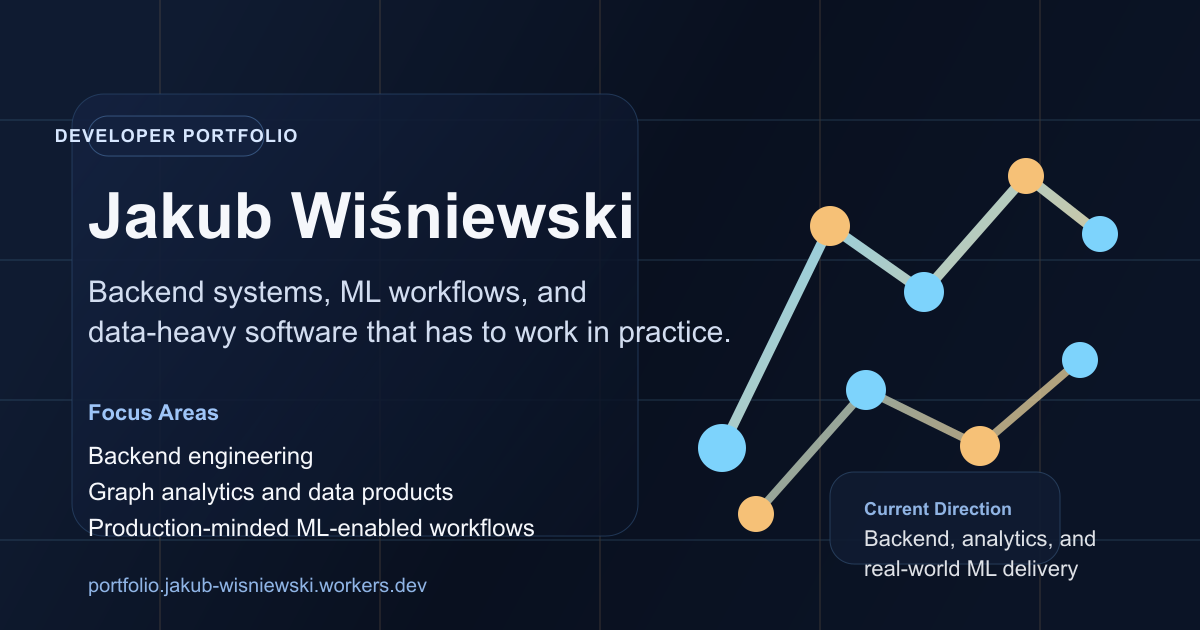
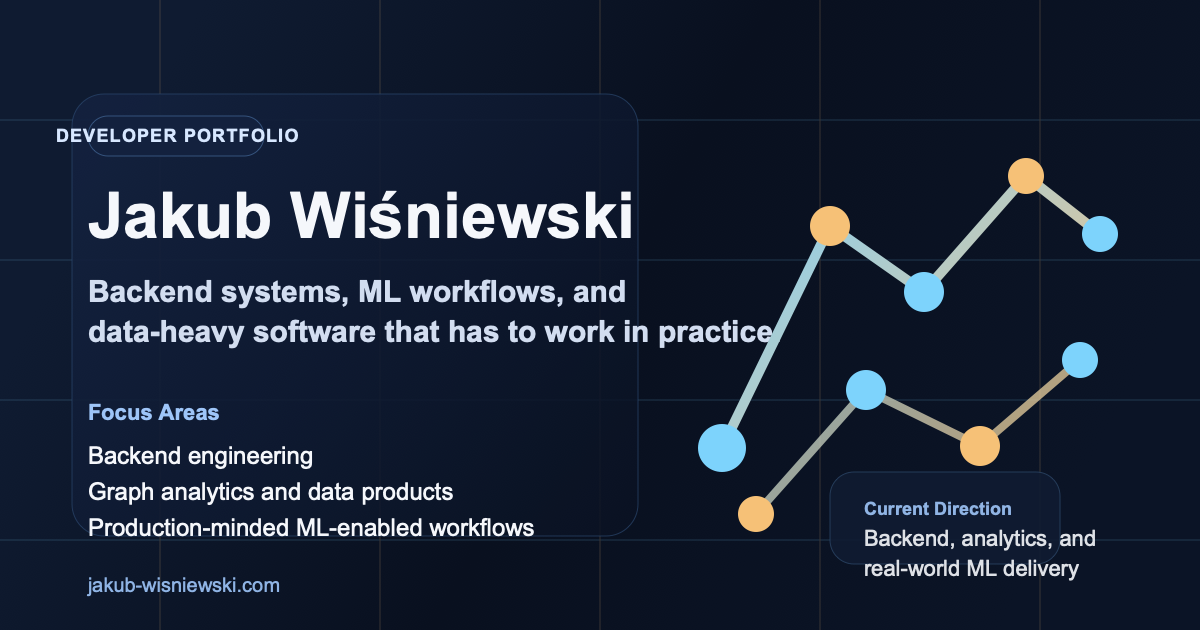
Align site metadata and Worker config with custom domain

diff --git a/index.html b/index.html
@@ -44,15 +44,15 @@
     />
     <meta
       property="og:url"
-      content="https://portfolio.jakub-wisniewski.workers.dev/"
+      content="https://jakub-wisniewski.com/"
     />
     <meta
       property="og:image"
-      content="https://portfolio.jakub-wisniewski.workers.dev/og-image.png"
+      content="https://jakub-wisniewski.com/og-image.png"
     />
     <meta
       property="og:image:secure_url"
-      content="https://portfolio.jakub-wisniewski.workers.dev/og-image.png"
+      content="https://jakub-wisniewski.com/og-image.png"
     />
     <meta property="og:image:type" content="image/png" />
     <meta property="og:image:width" content="1200" />
@@ -72,21 +72,21 @@
     />
     <meta
       name="twitter:image"
-      content="https://portfolio.jakub-wisniewski.workers.dev/og-image.png"
+      content="https://jakub-wisniewski.com/og-image.png"
     />
     <meta
       name="twitter:image:alt"
       content="Jakub Wiśniewski portfolio preview card with graph-inspired visuals and a backend engineering focus."
     />
-    <link rel="canonical" href="https://portfolio.jakub-wisniewski.workers.dev/" />
+    <link rel="canonical" href="https://jakub-wisniewski.com/" />
     <link
       rel="alternate"
-      href="https://portfolio.jakub-wisniewski.workers.dev/"
+      href="https://jakub-wisniewski.com/"
       hreflang="en"
     />
     <link
       rel="alternate"
-      href="https://portfolio.jakub-wisniewski.workers.dev/"
+      href="https://jakub-wisniewski.com/"
       hreflang="x-default"
     />
     <link rel="manifest" href="/site.webmanifest" />
@@ -133,46 +133,46 @@
         "@graph": [
           {
             "@type": "WebSite",
-            "@id": "https://portfolio.jakub-wisniewski.workers.dev/#website",
+            "@id": "https://jakub-wisniewski.com/#website",
             "name": "Jakub Wiśniewski Portfolio",
-            "url": "https://portfolio.jakub-wisniewski.workers.dev/",
+            "url": "https://jakub-wisniewski.com/",
             "description": "Jakub Wiśniewski is a backend-focused developer building data products, graph analytics systems, ML-enabled workflows, and production-minded web applications.",
             "inLanguage": "en",
             "publisher": {
-              "@id": "https://portfolio.jakub-wisniewski.workers.dev/#person"
+              "@id": "https://jakub-wisniewski.com/#person"
             }
           },
           {
             "@type": "WebPage",
-            "@id": "https://portfolio.jakub-wisniewski.workers.dev/#webpage",
-            "url": "https://portfolio.jakub-wisniewski.workers.dev/",
+            "@id": "https://jakub-wisniewski.com/#webpage",
+            "url": "https://jakub-wisniewski.com/",
             "name": "Jakub Wiśniewski | Developer Portfolio",
             "description": "Jakub Wiśniewski is a backend-focused developer building data products, graph analytics systems, ML-enabled workflows, and production-minded web applications.",
             "isPartOf": {
-              "@id": "https://portfolio.jakub-wisniewski.workers.dev/#website"
+              "@id": "https://jakub-wisniewski.com/#website"
             },
             "about": {
-              "@id": "https://portfolio.jakub-wisniewski.workers.dev/#person"
+              "@id": "https://jakub-wisniewski.com/#person"
             },
             "primaryImageOfPage": {
-              "@id": "https://portfolio.jakub-wisniewski.workers.dev/#primaryimage"
+              "@id": "https://jakub-wisniewski.com/#primaryimage"
             },
             "inLanguage": "en"
           },
           {
             "@type": "ImageObject",
-            "@id": "https://portfolio.jakub-wisniewski.workers.dev/#primaryimage",
-            "contentUrl": "https://portfolio.jakub-wisniewski.workers.dev/og-image.png",
-            "url": "https://portfolio.jakub-wisniewski.workers.dev/og-image.png",
+            "@id": "https://jakub-wisniewski.com/#primaryimage",
+            "contentUrl": "https://jakub-wisniewski.com/og-image.png",
+            "url": "https://jakub-wisniewski.com/og-image.png",
             "caption": "Jakub Wiśniewski developer portfolio social preview"
           },
           {
             "@type": "Person",
-            "@id": "https://portfolio.jakub-wisniewski.workers.dev/#person",
+            "@id": "https://jakub-wisniewski.com/#person",
             "name": "Jakub Wiśniewski",
             "alternateName": "Jakub Wisniewski",
-            "url": "https://portfolio.jakub-wisniewski.workers.dev/",
-            "image": "https://portfolio.jakub-wisniewski.workers.dev/og-image.png",
+            "url": "https://jakub-wisniewski.com/",
+            "image": "https://jakub-wisniewski.com/og-image.png",
             "jobTitle": "Developer focused on backend engineering, machine learning, and data analytics",
             "description": "Backend-focused developer working across scalable systems, machine learning workflows, analytics tooling, and research infrastructure.",
             "email": "mailto:jakub.wisniewski.dev@gmail.com",

diff --git a/README.md b/README.md
@@ -81,23 +81,33 @@ npm run preview
 
 - The site ships with search/discovery assets in [`public/robots.txt`](/Users/deprave/Documents/PersonalWebsite/public/robots.txt), [`public/sitemap.xml`](/Users/deprave/Documents/PersonalWebsite/public/sitemap.xml), [`public/site.webmanifest`](/Users/deprave/Documents/PersonalWebsite/public/site.webmanifest), [`public/browserconfig.xml`](/Users/deprave/Documents/PersonalWebsite/public/browserconfig.xml), [`public/humans.txt`](/Users/deprave/Documents/PersonalWebsite/public/humans.txt), and [`public/.well-known/security.txt`](/Users/deprave/Documents/PersonalWebsite/public/.well-known/security.txt).
 - Social, canonical, and structured-data tags live in [`index.html`](/Users/deprave/Documents/PersonalWebsite/index.html).
+- Workers routing is configured in [`wrangler.jsonc`](/Users/deprave/Documents/PersonalWebsite/wrangler.jsonc) to serve the site on `jakub-wisniewski.com` and disable the public `workers.dev` hostname on deploy.
 - Optional Cloudflare Web Analytics support is wired in [`src/components/CloudflareWebAnalytics.tsx`](/Users/deprave/Documents/PersonalWebsite/src/components/CloudflareWebAnalytics.tsx). Set `VITE_CLOUDFLARE_WEB_ANALYTICS_TOKEN` before `npm run build` if you want Cloudflare's browser-side beacon on a plain static deployment.
 - For a Worker that only serves static assets, the Workers `Metrics` tab is not the right observability surface. Cloudflare serves those static requests at no charge, and the useful measurement layer here is Web Analytics in the browser, not Workers logs/traces.
-- After deployment, add the site to Google Search Console and submit `https://portfolio.jakub-wisniewski.workers.dev/sitemap.xml`. That step cannot be completed from inside the repo, but it is the normal follow-up if you want Google to discover updates faster.
+- After deployment, add the site to Google Search Console and submit `https://jakub-wisniewski.com/sitemap.xml`. That step cannot be completed from inside the repo, but it is the normal follow-up if you want Google to discover updates faster.
 
 ## Deploy For Free
 
-Recommended: Cloudflare Pages
+Current setup: Cloudflare Workers with a custom domain
 
-- Why: best free fit for this site, very fast global edge delivery, simple GitHub integration, and a free `*.pages.dev` URL.
-- Cloudflare Pages supports both private and public GitHub repositories.
+- The repo deploys with Wrangler via `npm run deploy`.
+- [`wrangler.jsonc`](/Users/deprave/Documents/PersonalWebsite/wrangler.jsonc) is configured to attach the Worker to `jakub-wisniewski.com` as a Custom Domain and disable the public `workers.dev` hostname.
 - The repo pins Node.js with [`.node-version`](/Users/deprave/Documents/PersonalWebsite/.node-version) and adds Cloudflare static headers in [`public/_headers`](/Users/deprave/Documents/PersonalWebsite/public/_headers).
-- Build settings for this repo:
-  - Framework preset: `Vite`
-  - Build command: `npm run build`
-  - Build output directory: `dist`
-  - Production branch: `main`
-  - Root directory: leave empty
+
+Deploy with Wrangler:
+
+```bash
+npm run deploy
+```
+
+After deploy, verify in Cloudflare:
+
+1. `Workers & Pages` -> `portfolio` -> `Settings` -> `Domains & Routes`.
+2. Confirm `jakub-wisniewski.com` is listed as a Custom Domain.
+3. Confirm `workers.dev` is disabled.
+4. If you later want `www`, add `www.jakub-wisniewski.com` separately and redirect it to the apex domain to avoid duplicate content.
+
+Alternative: Cloudflare Pages
 
 Repository prep:
 
